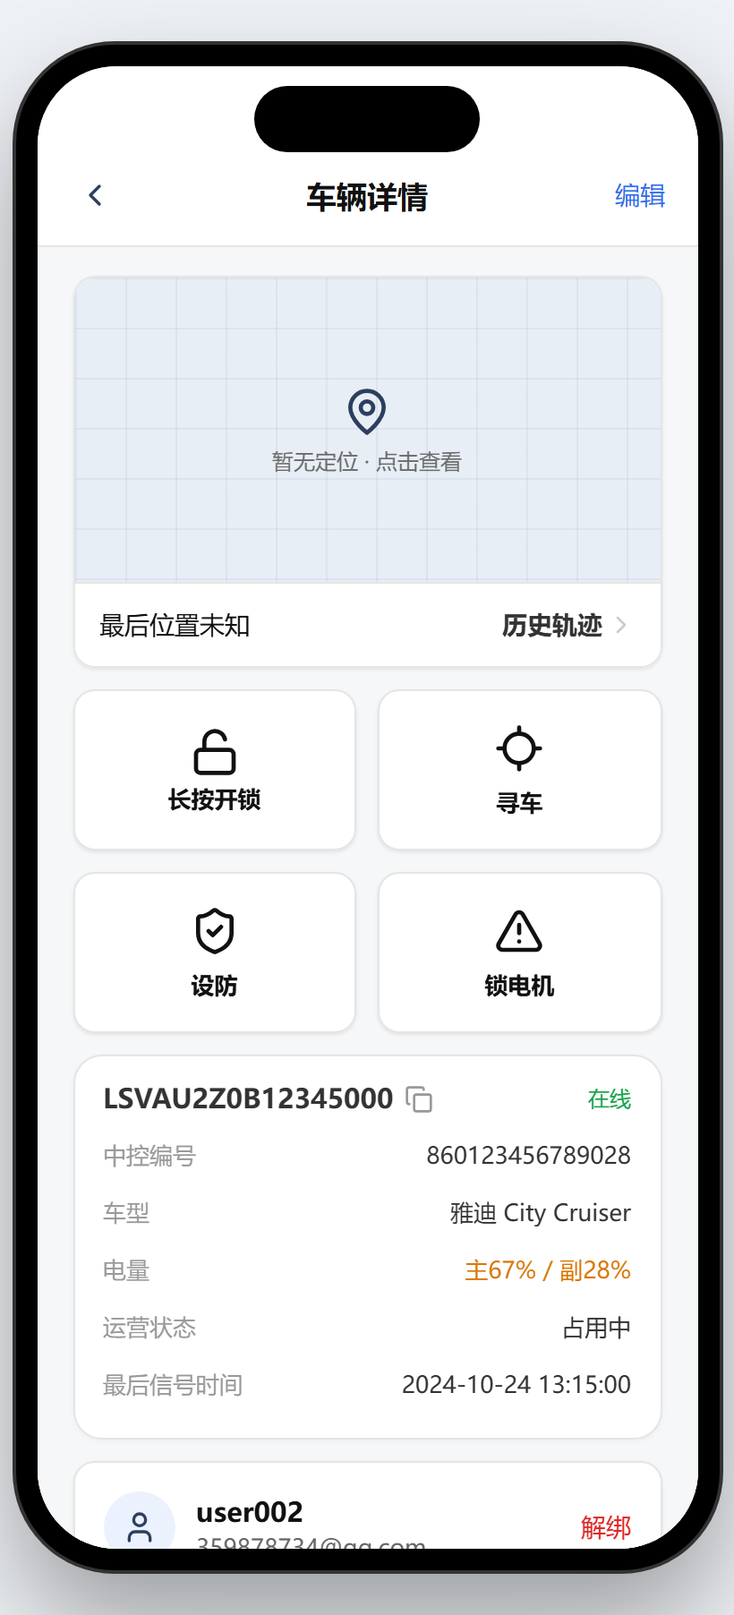
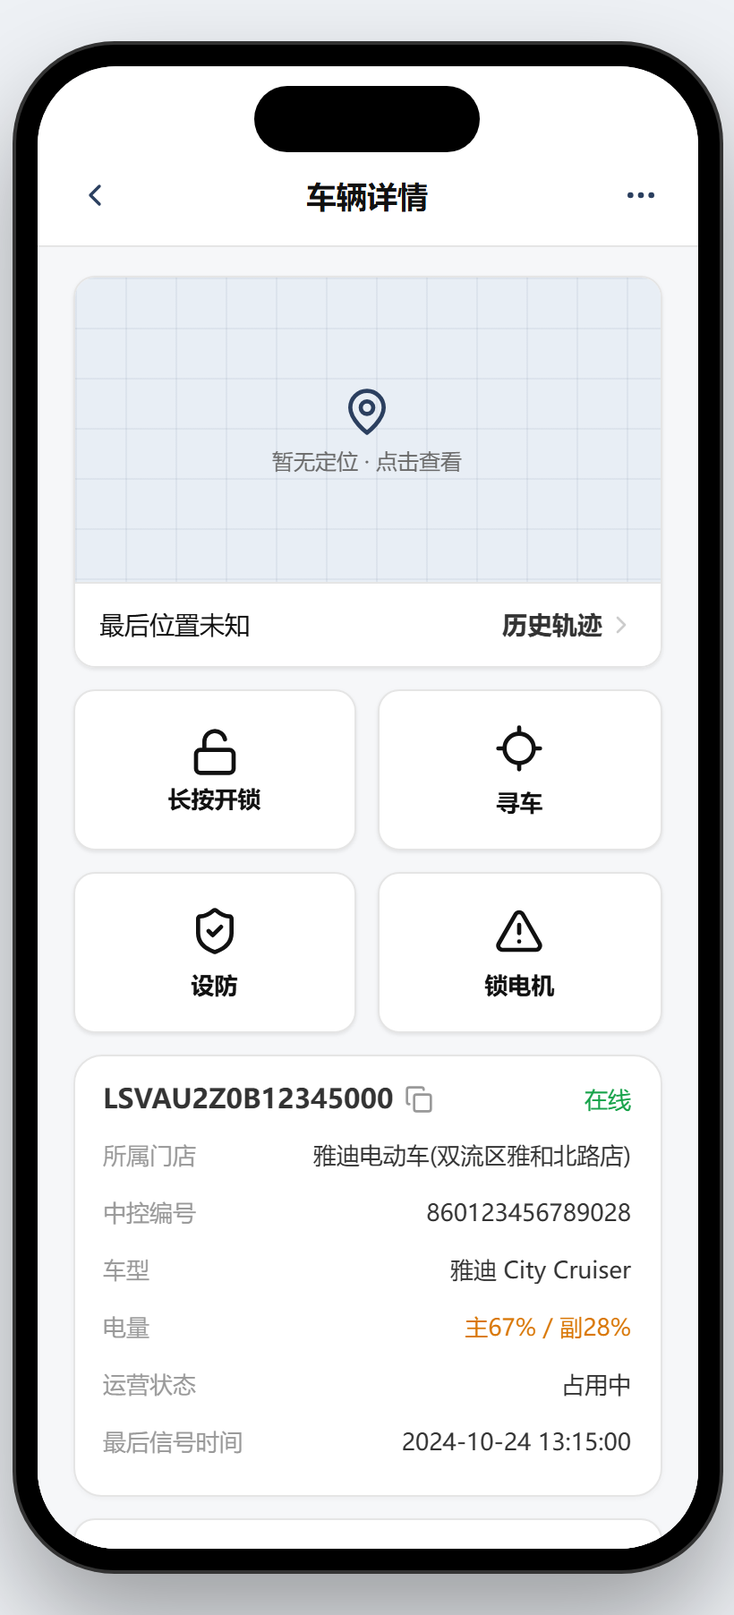
ui(device): 充电设备详情标题改名 + 车辆/电池详情「更多」操作（编辑 / 更换门店）
①充电设备详情页标题由「设备详情」改为「充电设备详情」（locales/rent 五语补 merchant.chargingDevice.detailTitle）。②车辆详情与电池详情右上角由「编辑」改为「更多」（三点按钮，title=更多）：弹「更多操作」面板，提供 编辑（沿用原入口）与 更换门店。③车辆/电池新增门店字段（种子 shopId）与详情「所属门店」行，更换门店用 OptionSheet 门店单选、选中即回写（详情为副本时同步回列表源数据）并提示「所属门店已更换」。④权限树新增 vehicle.change_shop / battery.change_shop（更换门店）；locales/rent 五语补 common.action.more（更多）。⑤docs(merchant-sop) 3.3/3.6/4.3/4.7 描述同步，重生成 13-veh-detail.png、23-batt-detail.png。

diff --git a/index.html b/index.html
@@ -3614,7 +3614,7 @@ body.host-single-m #root-user{display:none}
 
 <!-- ═══ VEHICLE DETAIL ═══ -->
 <page :open="vehOV==='detail'" :z="560" :swipe-close="()=>goBack()">
-<nav-bar title="车辆详情" border-color="#E5E5E5" @back="goBack"><template #right><span v-if="can('vehicle.edit')" class="w-8 h-8 flex items-center justify-center shrink-0 text-[14px] font-medium text-[var(--link)] cursor-pointer active:opacity-70" data-cp @click="openVehEdit">编辑</span></template></nav-bar>
+<nav-bar title="车辆详情" border-color="#E5E5E5" @back="goBack"><template #right><span v-if="can('vehicle.edit')||can('vehicle.change_shop')" class="w-full h-full flex items-center justify-center cursor-pointer active:opacity-70" style="color:var(--accent)" data-cp @click="vehMoreOpen=true" data-od-id="veh-more-btn" title="更多"><span v-html="luci('more-horizontal','w-5 h-5')"></span></span></template></nav-bar>
 <div class="flex-1 overflow-y-auto px-5 pt-4 pb-10 hide-scroll" style="touch-action:pan-y">
 <div class="mb-3 rounded-xl overflow-hidden" style="border:1px solid #E5E5E5;box-shadow:0 1px 3px rgba(0,0,0,.04),0 1px 2px rgba(0,0,0,.06)" data-od-id="veh-detail-map-track-block">
 <div class="w-full h-[170px] relative cursor-pointer active:opacity-95" style="background:#E8EEF5;background-image:linear-gradient(rgba(43,63,95,.06)1px,transparent 1px),linear-gradient(90deg,rgba(43,63,95,.06)1px,transparent 1px);background-size:28px 28px" data-od-id="veh-detail-open-location" data-cp @click="openVehLocation">
@@ -3662,6 +3662,7 @@ body.host-single-m #root-user{display:none}
 </div>
 <kv-card :title="dv.vin" label-width="5rem" class="mb-3" :copyable="!!dv.vin" @copy="t=>copyText(t,'车架号')">
   <template #extra><span class="font-medium shrink-0" :style="{color:dv.online?'#17A34A':'#D97706'}">{{ dv.online?'在线':'离线' }}</span></template>
+  <kv-row label="所属门店" :value="storeNameOf(dv.shopId)" align="top" value-class="whitespace-normal break-words"></kv-row>
   <kv-row label="中控编号" :value="dv.ctrl"></kv-row>
   <kv-row label="车型" :value="dv.model"></kv-row>
   <kv-row label="电量" :value="'主'+dv.batteryMain+'% / 副'+dv.batterySub+'%'" :value-style="{color:bc(dv.batteryMain)}"></kv-row>
@@ -3675,6 +3676,17 @@ body.host-single-m #root-user{display:none}
 </div>
 </div>
 </page>
+
+<!-- ═══ VEHICLE · 更多操作（编辑 / 更换门店） ═══ -->
+<bottom-sheet :open="vehMoreOpen" title="更多操作" :mask-z="900" panel-oid="veh-ops-sheet" @close="vehMoreOpen=false">
+<div class="pt-1">
+<div v-if="can('vehicle.edit')" data-cp @click="vehMoreOpen=false;openVehEdit()" class="flex items-center justify-center px-5 py-3 cursor-pointer active:bg-[#F6F7F9]" data-od-id="veh-op-edit"><span class="text-[15px] font-medium">编辑</span></div>
+<div v-if="can('vehicle.change_shop')" data-cp @click="vehMoreOpen=false;vehShopPick=true" class="flex items-center justify-center px-5 py-3 cursor-pointer active:bg-[#F6F7F9]" style="border-top:1px solid #EDEDED" data-od-id="veh-op-shop"><span class="text-[15px] font-medium">更换门店</span></div>
+</div>
+</bottom-sheet>
+
+<!-- ═══ VEHICLE · 更换门店（OptionSheet：统一单选列表；选中即更换） ═══ -->
+<option-sheet :open="vehShopPick" title="更换门店" :options="vehShopOptions" :model-value="dv.shopId" :mask-z="800" oid="veh-shop-mask" panel-oid="veh-shop-picker" @select="vehPickShop" @close="vehShopPick=false"></option-sheet>
 
 <!-- ═══ VEHICLE LOCATION DETAIL ═══ -->
 <page :open="vehOV==='location'" :z="510" :swipe-close="()=>goBack()" oid="veh-location-page">
@@ -4091,7 +4103,7 @@ body.host-single-m #root-user{display:none}
 
 <!-- ═══ BATTERY DETAIL 二级页 ═══ -->
 <page :open="ordersOV==='battDetail'" :z="500" :swipe-close="()=>goBack()" oid="battery-detail-page">
-<nav-bar title="电池详情" border-color="#E5E5E5" @back="goBack"><template #right><span v-if="can('battery.edit')" class="w-8 h-8 flex items-center justify-center shrink-0 text-[14px] font-medium text-[var(--link)] cursor-pointer active:opacity-70" data-cp @click="openBattEdit">编辑</span></template></nav-bar>
+<nav-bar title="电池详情" border-color="#E5E5E5" @back="goBack"><template #right><span v-if="can('battery.edit')||can('battery.change_shop')" class="w-full h-full flex items-center justify-center cursor-pointer active:opacity-70" style="color:var(--accent)" data-cp @click="battMoreOpen=true" data-od-id="batt-more-btn" title="更多"><span v-html="luci('more-horizontal','w-5 h-5')"></span></span></template></nav-bar>
 <div class="flex-1 overflow-y-auto px-5 pt-4 pb-10 hid">
 <template v-if="curBatt">
 <div class="mb-3 rounded-xl overflow-hidden" style="border:1px solid #E5E5E5;box-shadow:0 1px 3px rgba(0,0,0,.04),0 1px 2px rgba(0,0,0,.06)" data-od-id="batt-detail-map-block">
@@ -4119,6 +4131,7 @@ body.host-single-m #root-user{display:none}
 </div>
 <kv-card :title="curBatt.battNo" label-width="5rem" class="mb-3" :copyable="!!curBatt.battNo" @copy="t=>copyText(t,'电池编号')" data-od-id="batt-detail-info-card">
 <template #extra><span class="font-medium shrink-0" :style="{color:curBatt.online?'#17A34A':'#D97706'}">{{ curBatt.online?'在线':'离线' }}</span></template>
+<kv-row label="所属门店" :value="storeNameOf(curBatt.shopId)" align="top" value-class="whitespace-normal break-words"></kv-row>
 <kv-row label="电池型号" :value="curBatt.model"></kv-row>
 <kv-row label="电量" :value="curBatt.level+'%'" :value-style="{color:bc(curBatt.level)}"></kv-row>
 <kv-row label="运营状态" :value="curBatt.status" :value-style="{color:sc(curBatt.status)}"></kv-row>
@@ -4140,6 +4153,18 @@ body.host-single-m #root-user{display:none}
 </template>
 </div>
 </page>
+
+<!-- ═══ BATTERY · 更多操作（编辑 / 更换门店） ═══ -->
+<bottom-sheet :open="battMoreOpen" title="更多操作" :mask-z="900" panel-oid="batt-ops-sheet" @close="battMoreOpen=false">
+<div class="pt-1">
+<div v-if="can('battery.edit')" data-cp @click="battMoreOpen=false;openBattEdit()" class="flex items-center justify-center px-5 py-3 cursor-pointer active:bg-[#F6F7F9]" data-od-id="batt-op-edit"><span class="text-[15px] font-medium">编辑</span></div>
+<div v-if="can('battery.change_shop')" data-cp @click="battMoreOpen=false;battShopPick=true" class="flex items-center justify-center px-5 py-3 cursor-pointer active:bg-[#F6F7F9]" style="border-top:1px solid #EDEDED" data-od-id="batt-op-shop"><span class="text-[15px] font-medium">更换门店</span></div>
+</div>
+</bottom-sheet>
+
+<!-- ═══ BATTERY · 更换门店（OptionSheet：统一单选列表；选中即更换） ═══ -->
+<option-sheet :open="battShopPick" title="更换门店" :options="battShopOptions" :model-value="curBatt?curBatt.shopId:''" :mask-z="800" oid="batt-shop-mask" panel-oid="batt-shop-picker" @select="battPickShop" @close="battShopPick=false"></option-sheet>
+
 <confirm-dialog :open="battMod" :title="battModTitle" :desc="battModDesc" :loading="battModLoading" z="800" @close="battMod=null" @confirm="battConfirmMod"></confirm-dialog>
 
 <!-- ═══ BATTERY EDIT ═══ -->
@@ -5045,7 +5070,7 @@ body.host-single-m #root-user{display:none}
 
 <!-- ═══ 充电设备 · 详情页 ═══ -->
 <page :open="cdOV==='detail'" :z="510" :swipe-close="()=>goBack()" oid="mc-charge-device-detail-page" data-od-id="mc-charge-device-detail-page">
-<nav-bar title="设备详情" border-color="#E5E5E5" @back="goBack()"><template #right><span class="w-full h-full flex items-center justify-center cursor-pointer active:opacity-70" style="color:var(--accent)" data-cp @click="cdMoreOpen=true" data-od-id="cd-more-btn"><span v-html="luci('more-horizontal','w-5 h-5')"></span></span></template></nav-bar>
+<nav-bar title="充电设备详情" border-color="#E5E5E5" @back="goBack()"><template #right><span class="w-full h-full flex items-center justify-center cursor-pointer active:opacity-70" style="color:var(--accent)" data-cp @click="cdMoreOpen=true" data-od-id="cd-more-btn" title="更多"><span v-html="luci('more-horizontal','w-5 h-5')"></span></span></template></nav-bar>
 <div class="flex-1 overflow-y-auto min-h-0 conf-scroll-hide px-4 pt-4 pb-8" style="touch-action:pan-y;-webkit-overflow-scrolling:touch" data-od-id="cd-detail-scroll">
 <kv-card :title="curChargeDev?curChargeDev.deviceNo:'-'" label-width="5rem" class="mb-3" :copyable="!!(curChargeDev&&curChargeDev.deviceNo)" @copy="t=>copyText(t,'设备编号')" data-od-id="cd-detail-basic">
 <template #extra><span class="font-medium shrink-0" :style="{color:curChargeDev?cdEnableTag(curChargeDev.status).c:'#999'}">{{ curChargeDev?cdEnableTag(curChargeDev.status).l:'' }}</span></template>
@@ -6861,18 +6886,18 @@ function fmtRp(n,dec){var v=Number(n);if(v==null||isNaN(v))v=0;var c=MONEY.cur,a
 
 /* ══ 共享权威数据（商户端为准；双端局用同一引用，消费型投影仍在 MERGED） ══ */
 const vehicles=Vue.ref([
-  {vin:'LSVAU2Z0A88888000',ctrl:'860123456789012',model:'雅迪 E-Bike Pro',plate:'京A·88888',account:'user001',phone:'+86 13800001111',email:'',status:'空闲',online:true,batteryMain:92,batterySub:85,time:'2024-10-24 14:30:00',lost:false,lat:39.9219,lng:116.4435,location:'北京市朝阳区三里屯'},
-  {vin:'LSVAU2Z0B12345000',ctrl:'860123456789028',model:'雅迪 City Cruiser',plate:'京B·12345',account:'user002',phone:'',email:'359878734@qq.com',status:'占用中',online:true,batteryMain:67,batterySub:28,time:'2024-10-24 13:15:00',lost:false,lat:null,lng:null,location:''},
-  {vin:'LSVAU2Z0C66666000',ctrl:'860123456789034',model:'雅迪 Mountain X',plate:'京C·66666',account:'user003',phone:'',email:'',status:'租用中',online:false,batteryMain:18,batterySub:15,time:'2024-10-24 12:00:00',lost:true,lat:39.9042,lng:116.4074,location:'北京市西城区西单'},
-  {vin:'LSVAU2Z0D77777000',ctrl:'860123456789045',model:'雅迪 E-Bike Pro',plate:'京D·77777',account:'',phone:'',email:'',status:'空闲',online:true,batteryMain:78,batterySub:70,time:'2024-10-24 15:02:00',lost:false,lat:39.9365,lng:116.4521,location:'北京市朝阳区工体北路'},
+  {vin:'LSVAU2Z0A88888000',shopId:1,ctrl:'860123456789012',model:'雅迪 E-Bike Pro',plate:'京A·88888',account:'user001',phone:'+86 13800001111',email:'',status:'空闲',online:true,batteryMain:92,batterySub:85,time:'2024-10-24 14:30:00',lost:false,lat:39.9219,lng:116.4435,location:'北京市朝阳区三里屯'},
+  {vin:'LSVAU2Z0B12345000',shopId:1,ctrl:'860123456789028',model:'雅迪 City Cruiser',plate:'京B·12345',account:'user002',phone:'',email:'359878734@qq.com',status:'占用中',online:true,batteryMain:67,batterySub:28,time:'2024-10-24 13:15:00',lost:false,lat:null,lng:null,location:''},
+  {vin:'LSVAU2Z0C66666000',shopId:2,ctrl:'860123456789034',model:'雅迪 Mountain X',plate:'京C·66666',account:'user003',phone:'',email:'',status:'租用中',online:false,batteryMain:18,batterySub:15,time:'2024-10-24 12:00:00',lost:true,lat:39.9042,lng:116.4074,location:'北京市西城区西单'},
+  {vin:'LSVAU2Z0D77777000',shopId:3,ctrl:'860123456789045',model:'雅迪 E-Bike Pro',plate:'京D·77777',account:'',phone:'',email:'',status:'空闲',online:true,batteryMain:78,batterySub:70,time:'2024-10-24 15:02:00',lost:false,lat:39.9365,lng:116.4521,location:'北京市朝阳区工体北路'},
 ]);
 const batteries=Vue.ref([
-{battNo:'BATT-YD1000',account:'user005',phone:'+86 13700005555',email:'',model:'天能锂电 72V20Ah',status:'空闲',online:true,level:92,lost:false,discharge:true,vin:'LSVAU2Z0A88888000',time:'2026-08-20 14:30:00',lat:39.9219,lng:116.4435,location:'北京市朝阳区三里屯'},
-{battNo:'BATT-YD1001',account:'user006',phone:'',email:'battery006@qq.com',model:'超威黑金 72V32Ah',status:'占用中',online:true,level:74,lost:false,discharge:true,vin:'LSVAU2Z0B12345000',time:'2026-08-20 13:15:00',lat:null,lng:null,location:''},
-{battNo:'BATT-YD1002',account:'',phone:'',email:'',model:'天能锂电 48V20Ah',status:'空闲',online:true,level:85,lost:false,discharge:true,vin:'',time:'2026-08-20 11:02:00',lat:null,lng:null,location:''},
-{battNo:'BATT-YD1003',account:'user008',phone:'+86 13700008888',email:'',model:'天能锂电 72V20Ah',status:'占用中',online:false,level:32,lost:false,discharge:false,vin:'LSVAU2Z0E99999000',time:'2026-08-19 09:40:00',lat:39.9042,lng:116.4074,location:'北京市西城区西单'},
-{battNo:'BATT-YD1004',account:'user009',phone:'',email:'battery009@qq.com',model:'超威黑金 72V32Ah',status:'空闲',online:true,level:63,lost:true,discharge:false,vin:'',time:'2026-08-20 10:25:00',lat:39.9365,lng:116.4521,location:'北京市朝阳区工体北路'},
-{battNo:'BATT-YD1005',account:'user010',phone:'+86 13700009999',email:'',model:'天能锂电 48V20Ah',status:'空闲',online:true,level:12,lost:false,discharge:true,vin:'LSVAU2Z0A33333001',time:'2026-08-20 08:12:00',lat:39.9842,lng:116.4849,location:'北京市朝阳区望京街道'}
+{battNo:'BATT-YD1000',shopId:1,account:'user005',phone:'+86 13700005555',email:'',model:'天能锂电 72V20Ah',status:'空闲',online:true,level:92,lost:false,discharge:true,vin:'LSVAU2Z0A88888000',time:'2026-08-20 14:30:00',lat:39.9219,lng:116.4435,location:'北京市朝阳区三里屯'},
+{battNo:'BATT-YD1001',shopId:1,account:'user006',phone:'',email:'battery006@qq.com',model:'超威黑金 72V32Ah',status:'占用中',online:true,level:74,lost:false,discharge:true,vin:'LSVAU2Z0B12345000',time:'2026-08-20 13:15:00',lat:null,lng:null,location:''},
+{battNo:'BATT-YD1002',shopId:2,account:'',phone:'',email:'',model:'天能锂电 48V20Ah',status:'空闲',online:true,level:85,lost:false,discharge:true,vin:'',time:'2026-08-20 11:02:00',lat:null,lng:null,location:''},
+{battNo:'BATT-YD1003',shopId:2,account:'user008',phone:'+86 13700008888',email:'',model:'天能锂电 72V20Ah',status:'占用中',online:false,level:32,lost:false,discharge:false,vin:'LSVAU2Z0E99999000',time:'2026-08-19 09:40:00',lat:39.9042,lng:116.4074,location:'北京市西城区西单'},
+{battNo:'BATT-YD1004',shopId:3,account:'user009',phone:'',email:'battery009@qq.com',model:'超威黑金 72V32Ah',status:'空闲',online:true,level:63,lost:true,discharge:false,vin:'',time:'2026-08-20 10:25:00',lat:39.9365,lng:116.4521,location:'北京市朝阳区工体北路'},
+{battNo:'BATT-YD1005',shopId:3,account:'user010',phone:'+86 13700009999',email:'',model:'天能锂电 48V20Ah',status:'空闲',online:true,level:12,lost:false,discharge:true,vin:'LSVAU2Z0A33333001',time:'2026-08-20 08:12:00',lat:39.9842,lng:116.4849,location:'北京市朝阳区望京街道'}
 ]);
 /* ══ 状态文案与颜色：双端统一管理（订单状态 / 支付状态，改这里两端同时生效） ══ */
 var ORDER_ST_TEXT={created:'已创建',pickup:'待绑定',progress:'租赁中','return':'即将到期',overdue:'逾期未还',breach:'违约锁单',complete:'已完成',cancelled:'已取消'};
@@ -8536,6 +8561,11 @@ const editSelectedProtocol=computed(()=>(editSelectedModel.value?.protocolType)|
 function openVehEdit(){navOpen();if(!can('vehicle.edit')){deny();return}editCtrl.value=dv.value.ctrl;editModel.value=dv.value.model;editPlate.value=dv.value.plate;vehOV.value='edit'}
 function saveVehEdit(){dv.value.ctrl=editCtrl.value;dv.value.model=editModel.value;dv.value.plate=editPlate.value;dv.value.protocol=editSelectedProtocol.value;dv.value.startMode=dv.value.startMode||'onekey';const idx=vehicles.value.findIndex(v=>v.vin===dv.value.vin);if(idx>=0){vehicles.value[idx].ctrl=editCtrl.value;vehicles.value[idx].model=editModel.value;vehicles.value[idx].plate=editPlate.value;vehicles.value[idx].protocol=editSelectedProtocol.value;vehicles.value[idx].startMode=vehicles.value[idx].startMode||'onekey'}navDrop();vehOV.value='detail';toast('车辆信息已保存','success')}
 function vehOpenDetail(v){navOpen();if(!can('vehicle.detail')){deny();return}dv.value={...v};armed.value=false;lost.value=v.lost||false;motorLocked.value=!!v.motorLocked;vehOV.value='detail'}
+/* ══ 车辆 · 更多操作（编辑 / 更换门店） ══ */
+const vehMoreOpen=ref(false),vehShopPick=ref(false);
+const vehShopOptions=computed(()=>storeOptions.value.map(s=>({value:s.v,label:s.l})));
+/* 更换门店：OptionSheet 选中即提交（空值忽略、选中门店未变则仅关闭）；详情对象是副本，同步回列表源数据 */
+function vehPickShop(v){if(v===''||v==null)return;if(Number(v)===Number(dv.value.shopId)){vehShopPick.value=false;return}dv.value.shopId=Number(v);const i=vehicles.value.findIndex(x=>x.vin===dv.value.vin);if(i>=0)vehicles.value[i].shopId=Number(v);vehShopPick.value=false;toast('所属门店已更换','success')}
 function vehOpenAdd(){navOpen();if(!can('vehicle.add')){deny();return}vehOV.value='add'}
 function vehToggleViewSafe(){vehToggleView()}
 /* ══ VEHICLE LOCATION DETAIL ══ */
@@ -8805,12 +8835,12 @@ const permGroups=[
   {id:'alarm',name:'告警中心',codes:['alarm.list','alarm.detail'],items:[
     {c:'alarm.list',n:'告警列表'},{c:'alarm.detail',n:'告警详情'}
   ]},
-  {id:'veh',name:'车辆管理',codes:['vehicle.list','vehicle.detail','vehicle.add','vehicle.edit','vehicle.command.lock','vehicle.command.find_car','vehicle.command.arm','vehicle.command.motor_lock'],items:[
-    {c:'vehicle.list',n:'车辆列表'},{c:'vehicle.detail',n:'车辆详情'},{c:'vehicle.add',n:'新增车辆'},{c:'vehicle.edit',n:'编辑车辆'},
+  {id:'veh',name:'车辆管理',codes:['vehicle.list','vehicle.detail','vehicle.add','vehicle.edit','vehicle.change_shop','vehicle.command.lock','vehicle.command.find_car','vehicle.command.arm','vehicle.command.motor_lock'],items:[
+    {c:'vehicle.list',n:'车辆列表'},{c:'vehicle.detail',n:'车辆详情'},{c:'vehicle.add',n:'新增车辆'},{c:'vehicle.edit',n:'编辑车辆'},{c:'vehicle.change_shop',n:'更换门店'},
     {c:'vehicle.command.lock',n:'开关锁'},{c:'vehicle.command.find_car',n:'寻车鸣笛'},{c:'vehicle.command.arm',n:'设防'},{c:'vehicle.command.motor_lock',n:'锁电机'}
   ]},
-  {id:'batt',name:'电池管理',codes:['battery.list','battery.detail','battery.add','battery.edit','battery.discharge'],items:[
-    {c:'battery.list',n:'电池列表'},{c:'battery.detail',n:'电池详情'},{c:'battery.add',n:'新增电池'},{c:'battery.edit',n:'编辑电池'},{c:'battery.discharge',n:'电池放电'}
+  {id:'batt',name:'电池管理',codes:['battery.list','battery.detail','battery.add','battery.edit','battery.discharge','battery.change_shop'],items:[
+    {c:'battery.list',n:'电池列表'},{c:'battery.detail',n:'电池详情'},{c:'battery.add',n:'新增电池'},{c:'battery.edit',n:'编辑电池'},{c:'battery.discharge',n:'电池放电'},{c:'battery.change_shop',n:'更换门店'}
   ]},
   {id:'ord',name:'车辆订单',codes:['order.list','order.detail'],items:[
     {c:'order.list',n:'订单列表'},{c:'order.detail',n:'订单详情'}
@@ -9034,6 +9064,10 @@ function battOpenReportLost(){if(!can('battery.discharge')){deny();return}battMo
 const battModLoading=ref(false); function battConfirmMod(){if(battModLoading.value)return;battModLoading.value=true;setTimeout(()=>{battModLoading.value=false;const b=curBatt.value;if(!b)return;if(battMod.value==='unbind'){if(unbindBlocked(b&&b.status)){battMod.value=null;return}if(b&&b.battNo){var _mb=batteries.value.find(function(x){return x.battNo===b.battNo});if(_mb){_mb.status='空闲';_mb.account='';_mb.phone='';_mb.email='';_mb.vin=''}b.account='';b.phone='';b.email='';b.vin='';b.status='空闲'}toast('解绑成功','success')}else if(battMod.value==='lost'){b.lost=!b.lost;if(b.lost)b.discharge=false;toast(b.lost?'报失成功':'解除报失成功','success')}else{b.discharge=!b.discharge;toast(b.discharge?'已允许放电':'已禁止放电','success')}battMod.value=null},600)}
 const battEditModel=ref('');
 function openBattEdit(){navOpen();if(!can('battery.edit')){deny();return}battEditModel.value=curBatt.value?curBatt.value.model:'';ordersOV.value='battEdit'}
+/* ══ 电池 · 更多操作（编辑 / 更换门店） ══ */
+const battMoreOpen=ref(false),battShopPick=ref(false);
+const battShopOptions=computed(()=>storeOptions.value.map(s=>({value:s.v,label:s.l})));
+function battPickShop(v){if(v===''||v==null)return;const b=curBatt.value;if(!b)return;if(Number(v)===Number(b.shopId)){battShopPick.value=false;return}b.shopId=Number(v);const i=batteries.value.findIndex(x=>x.battNo===b.battNo);if(i>=0)batteries.value[i].shopId=Number(v);battShopPick.value=false;toast('所属门店已更换','success')}
 function saveBattEdit(){const b=curBatt.value;if(!b)return;b.model=battEditModel.value;const idx=batteries.value.findIndex(x=>x.battNo===b.battNo);if(idx>=0)batteries.value[idx].model=battEditModel.value;navDrop();ordersOV.value='battDetail';toast('电池信息已保存','success')}
 /* ══ BATTERY LOCATION DETAIL ══ */
 const battLocLoading=ref(false),battLocFocus=ref('battery');
@@ -10952,7 +10986,7 @@ dv,armed,lost,motorLocked,findLoading,addModel,addVin,addCtrl,modelQ,selectedMod
 vehModTitle,vehModDesc,vehModDanger,
 vehOpenDetail,vehOpenAdd,vehToggleViewSafe,vehDoSearch,startPress,endPress,doFind,vehOpenArm,vehOpenLost,vehOpenMotorLock,vehConfirmMod,pickModel,scanVin,doScan,scanning,scanTorch,showManualInput,manualVin,openManualInput,confirmManualVin,submitAdd,
 vehOpenFS,vehToggleFSModel,vehToggleFSOnline,vehToggleFSLost,vehResetFS,vehApplyFS,vehClearFilters,vehSetPill,sc,bi,bc,
-editCtrl,editModel,editPlate,editSelectedModel,editSelectedProtocol,openVehEdit,saveVehEdit,
+editCtrl,editModel,editPlate,editSelectedModel,editSelectedProtocol,openVehEdit,saveVehEdit,vehMoreOpen,vehShopPick,vehShopOptions,vehPickShop,
 openVehLocation,locLoading,locRinging,locFocus,locVehPt,locUserPt,locAddressFull,locAddressShort,locDistM,locWalkMin,locFocusUser,locFocusVehicle,locRingVehicle,locOpenNav,
 openVehTrack,trackStartLabel,trackEndLabel,trackLoading,trackPoints,trackPolyline,trackStartPt,trackEndPt,trackPois,
 
@@ -10963,7 +10997,7 @@ ordersOV,ordersMod,ordersShowFS,showRefund,ordersRefreshing,ordersQ,searchScope,
 orders,allStatus,demoAllStatus,paySts,demoPayStsFixed,filteredDemoPaySts,quickPills,qCnt,oFiltered,orderCustomerText,
 ordersType,typePills,typeCnt,ordersSetType,ordersTypeActive,
 ordersEntry,ordersPlaceholder,ordersLName,ordersListTitle,orderEntries,homeOpenOrders,closeOrderList,
-batteries,battQ,battPill,battPills,battPillCnt,batterFiltered,curBatt,battDoSearch,battOpenDetail,battMod,battDischarge,battModTitle,battModDesc,battOpenDischarge,battOpenReportLost,battConfirmMod,openBattLocation,loadBattLocData,battLocLoading,battLocFocus,battLocAddressFull,battLocAddressShort,battLocDistM,battLocWalkMin,battLocBattPt,battLocUserPt,battLocFocusUser,battLocFocusBattery,battLocOpenNav,openBattTrack,battTrackStart,battTrackEnd,battTrackDraft,battTrackTimePicker,battTrackLoading,battTrackPoints,battTrackWheelDay,battTrackWheelMonth,battTrackWheelYear,battTrackWheelHour,battTrackWheelMin,battTrackDays,battTrackMonths,battTrackYears,battTrackHours,battTrackMins,battTrackStartLabel,battTrackEndLabel,battTrackPois,battTrackPolyline,battTrackStartPt,battTrackEndPt,openBattTrackTimePicker,cancelBattTrackTimePicker,confirmBattTrackTimePicker,onBattTrackWheelScroll,battShowFS,battFsModelC,battFsOnlineC,battFsLostC,battHasF,battFsModels,battOpenFS,battToggleFSModel,battToggleFSOnline,battToggleFSLost,battResetFS,battApplyFS,battClearFilters,battSetPill,battView,battToggleView,battMapBatteries,battNoLocationCount,battMapSelected,battMapSelectedBatt,battMapSelect,battMapPinStyle,battCluster,battEditModel,openBattEdit,saveBattEdit,battAddModel,battAddNo,battModelQ,battModels,battShowModelSheet,battFilteredModels,canBattSubmit,pickBattModel,openBattAdd,closeBattAdd,submitBattAdd,scanBattNo,scanTarget,scanFrom,vehListScan,battListScan,
+batteries,battQ,battPill,battPills,battPillCnt,batterFiltered,curBatt,battDoSearch,battOpenDetail,battMod,battDischarge,battModTitle,battModDesc,battOpenDischarge,battOpenReportLost,battConfirmMod,openBattLocation,loadBattLocData,battLocLoading,battLocFocus,battLocAddressFull,battLocAddressShort,battLocDistM,battLocWalkMin,battLocBattPt,battLocUserPt,battLocFocusUser,battLocFocusBattery,battLocOpenNav,openBattTrack,battTrackStart,battTrackEnd,battTrackDraft,battTrackTimePicker,battTrackLoading,battTrackPoints,battTrackWheelDay,battTrackWheelMonth,battTrackWheelYear,battTrackWheelHour,battTrackWheelMin,battTrackDays,battTrackMonths,battTrackYears,battTrackHours,battTrackMins,battTrackStartLabel,battTrackEndLabel,battTrackPois,battTrackPolyline,battTrackStartPt,battTrackEndPt,openBattTrackTimePicker,cancelBattTrackTimePicker,confirmBattTrackTimePicker,onBattTrackWheelScroll,battShowFS,battFsModelC,battFsOnlineC,battFsLostC,battHasF,battFsModels,battOpenFS,battToggleFSModel,battToggleFSOnline,battToggleFSLost,battResetFS,battApplyFS,battClearFilters,battSetPill,battView,battToggleView,battMapBatteries,battNoLocationCount,battMapSelected,battMapSelectedBatt,battMapSelect,battMapPinStyle,battCluster,battEditModel,openBattEdit,saveBattEdit,battMoreOpen,battShopPick,battShopOptions,battPickShop,battAddModel,battAddNo,battModelQ,battModels,battShowModelSheet,battFilteredModels,canBattSubmit,pickBattModel,openBattAdd,closeBattAdd,submitBattAdd,scanBattNo,scanTarget,scanFrom,vehListScan,battListScan,
 ordersFsSt,ordersFsPay,ordersFsPaySt,ordersFsStart,ordersFsEnd,ordersFsStC,ordersFsPayC,ordersFsPayStC,ordersFsStartC,ordersFsEndC,ordersHasF,
 ordersDatePicker,ordersDateDraft,ordersDateYears,ordersDateDays,ordersDateWheelYear,ordersDateWheelMonth,ordersDateWheelDay,
 openOrdersDatePicker,cancelOrdersDatePicker,confirmOrdersDatePicker,onOrdersDateWheelScroll,

diff --git a/docs/merchant-rental-sop/index.html b/docs/merchant-rental-sop/index.html
@@ -471,14 +471,14 @@
       </div>
 
       <h3 class="step" id="s3-3">3.3 车辆详情与车控</h3>
-      <p>点击车辆进入详情，上部为位置缩略图（点击查看定位），下部为 <b>车控区</b>，具体按钮按权限显示：</p>
+      <p>点击车辆进入详情，上部为位置缩略图（点击查看定位），下部为 <b>车控区</b>，具体按钮按权限显示；右上角「更多」提供 <b>编辑</b> 与 <b>更换门店</b>：</p>
       <ul>
         <li><b>长按开锁 / 长按关锁</b>：按住约 1.5 秒触发，进度条满后下发指令，提示「已开锁 / 已关锁」。</li>
         <li><b>寻车</b>：向设备发送闪烁鸣笛指令，按钮短暂进入「寻车中…」。</li>
         <li><b>设防 / 解除设防</b>：二次确认后切换。</li>
         <li><b>锁电机 / 解锁电机</b>：二次确认后切换；锁定后车辆无法骑行。</li>
       </ul>
-      <p>下方为车辆信息卡（中控编号 / 车型 / 电量主副 / 运营状态 / 最后信号时间）与用户卡（当前绑定用户，未绑定时显示「未绑定用户」）。</p>
+      <p>下方为车辆信息卡（所属门店 / 中控编号 / 车型 / 电量主副 / 运营状态 / 最后信号时间）与用户卡（当前绑定用户，未绑定时显示「未绑定用户」）。</p>
       <div class="shots">
         <figure>
           <img src="images/13-veh-detail.png" alt="车辆详情">
@@ -505,7 +505,7 @@
       </div>
 
       <h3 class="step" id="s3-6">3.6 编辑车辆</h3>
-      <p>详情右上角「编辑」进入编辑页，可修改 <b>中控编号</b>、<b>车型</b>、<b>车牌号</b>。车型决定通信协议（HTTP / TCP），保存后提示「车辆信息已保存」并返回详情。</p>
+      <p>详情右上角「更多 → 编辑」进入编辑页，可修改 <b>中控编号</b>、<b>车型</b>、<b>车牌号</b>。车型决定通信协议（HTTP / TCP），保存后提示「车辆信息已保存」并返回详情。同一「更多」面板中的 <b>更换门店</b> 用于调整车辆所属门店，选中即生效并提示「所属门店已更换」。</p>
       <div class="shots">
         <figure>
           <img src="images/16-veh-edit.png" alt="编辑车辆">
@@ -579,7 +579,7 @@
       </div>
 
       <h3 class="step" id="s4-3">4.3 电池详情</h3>
-      <p>点击电池进入详情：上部为位置缩略图，中部为电池信息卡（型号、电量、状态、关联车辆、最后信号时间），下部为绑定用户卡与操作入口（编辑 / 放电控制 / 报失）。</p>
+      <p>点击电池进入详情：上部为位置缩略图，中部为电池信息卡（所属门店、型号、电量、状态、最后信号时间），下部为电池控制卡与绑定用户卡；右上角「更多」提供 <b>编辑</b> 与 <b>更换门店</b>（选中即生效并提示「所属门店已更换」）。</p>
       <div class="shots">
         <figure>
           <img src="images/23-batt-detail.png" alt="电池详情">
@@ -619,7 +619,7 @@
       </div>
 
       <h3 class="step" id="s4-7">4.7 编辑与新增电池</h3>
-      <p><b>编辑电池</b>：仅可修改电池型号。保存后提示「电池信息已保存」并返回详情。</p>
+      <p><b>编辑电池</b>：电池详情右上角「更多 → 编辑」进入编辑页，仅可修改电池型号。保存后提示「电池信息已保存」并返回详情。</p>
       <p><b>新增电池</b>：填写 <b>型号</b>（弹窗选择）与 <b>电池编号</b>（支持扫码 / 手动输入）两项，满足后「提交」可用，成功后提示「新增成功」。</p>
       <div class="shots">
         <figure>
